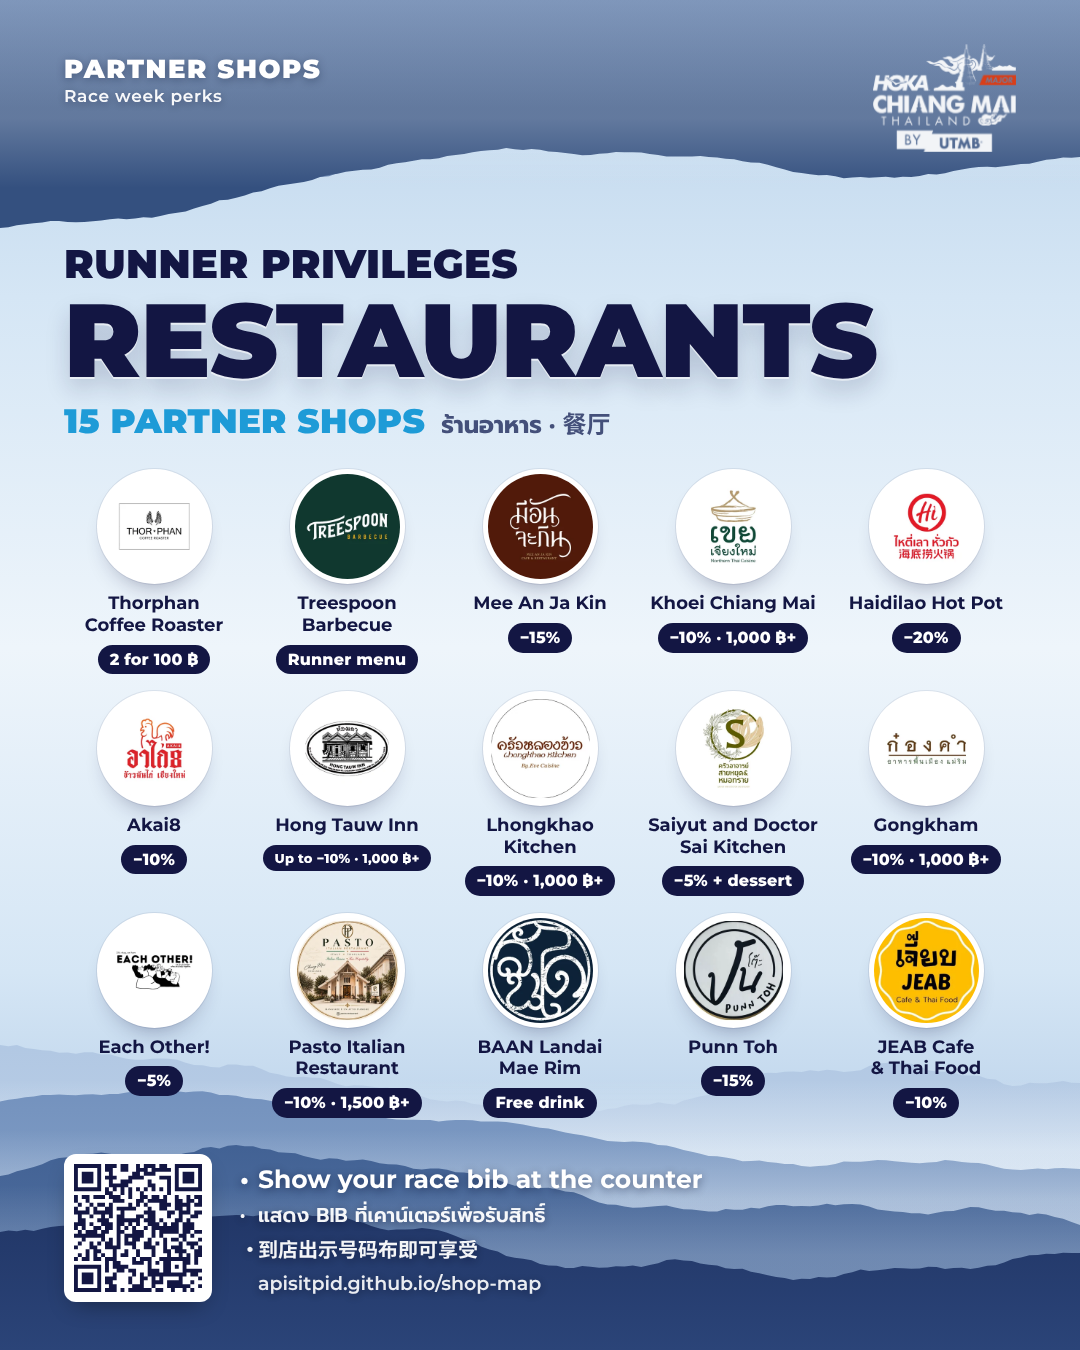
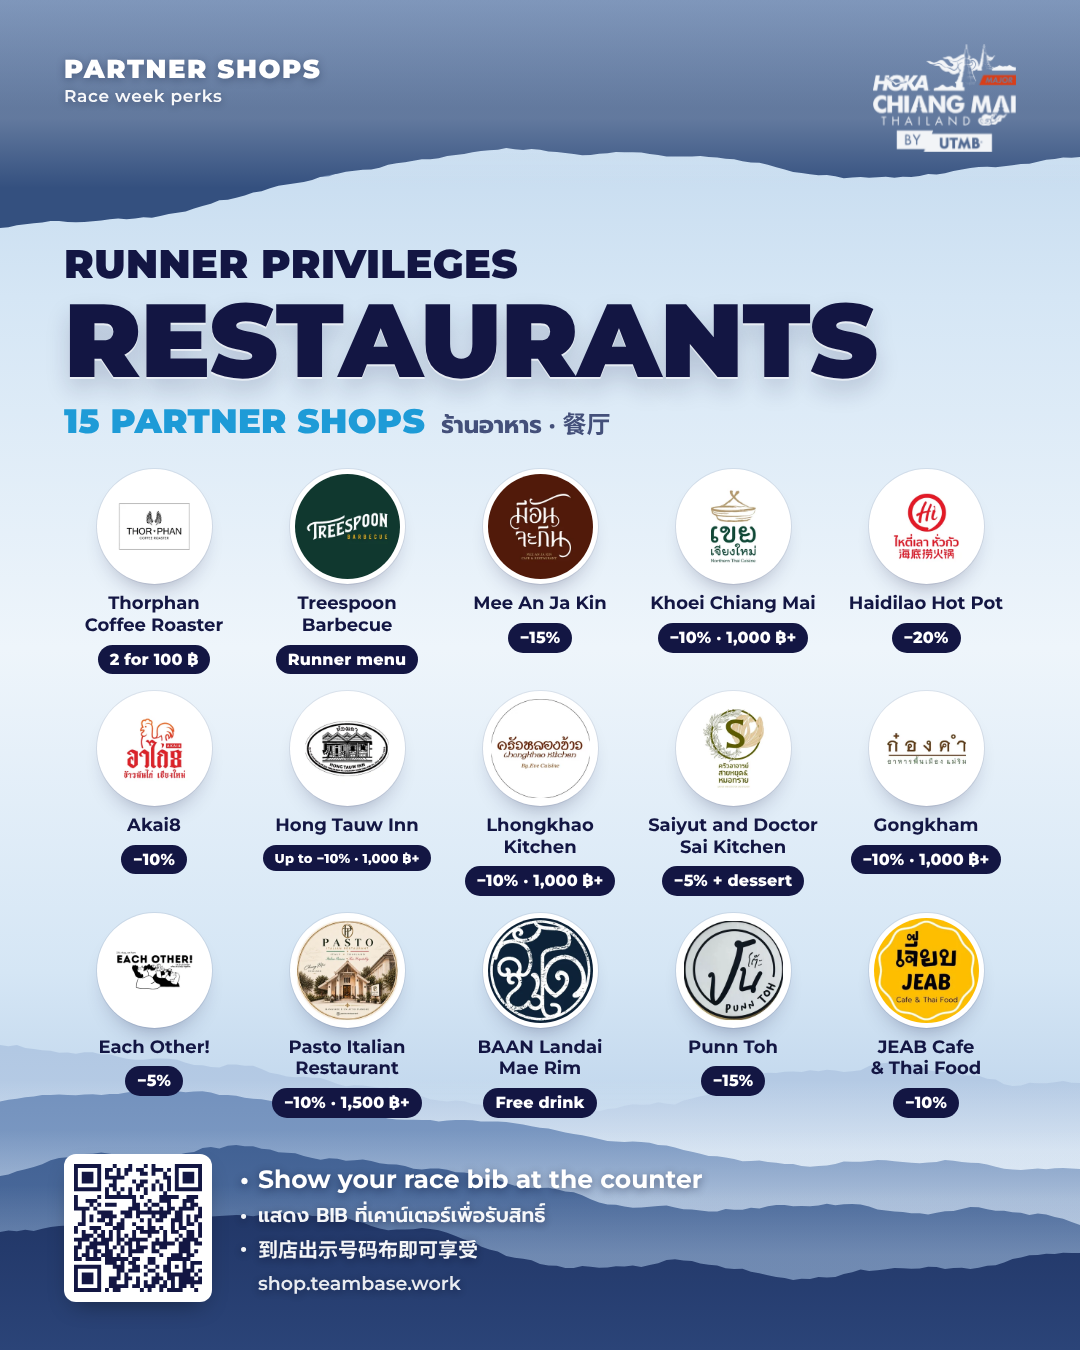
Shop map: production domain shop.teambase.work
- og:url / canonical / og:image use https://shop.teambase.work/
- Post QR codes and printed link point to the new domain (all 12 re-rendered)
- deploy/: nginx config and deploy steps for the VPS

Claude-Session: https://claude.ai/code/session_01UxwkSrKNztnXF9aGQjwj3k

Changed region(s): [[0.0611, 0.84, 0.1833, 0.9644], [0.2444, 0.9333, 0.4889, 0.9644]]

diff --git a/shop-map/promo/post.html b/shop-map/promo/post.html
@@ -56,7 +56,7 @@ canvas { position: absolute; left: 0; width: 1080px; pointer-events: none; }
 .qr { width: 148px; height: 148px; flex: none; padding: 10px; background: #fff; border-radius: 12px; box-shadow: 0 10px 24px -10px rgba(0,0,0,.45); }
 .qr svg { width: 100%; height: 100%; display: block; }
 .info .l, .info .s { display: grid; grid-template-columns: 18px 1fr; }
-.info .l::before, .info .s::before { content: "•"; }
+.info .l::before, .info .s::before { content: "•"; font-family: "Montserrat", sans-serif; font-weight: 700; }
 .info .u { padding-left: 18px; }
 .info { display: grid; gap: 6px; text-shadow: 0 2px 8px rgba(8,14,40,.45); }
 .info .l { font: 700 25px/1.3 var(--f); }
@@ -152,10 +152,10 @@ canvas { position: absolute; left: 0; width: 1080px; pointer-events: none; }
   }).join('');
 
   /* ---------- footer ---------- */
-  var url = 'https://apisitpid.github.io/shop-map/?cat=' + cat + '&lang=' + lang;
+  var url = 'https://shop.teambase.work/?cat=' + cat + '&lang=' + lang;
   document.getElementById('info').innerHTML = '<div class="l">' + C.esc(T.lines[0]) + '</div>' +
     T.lines.slice(1).map(function (t, i) { return '<div class="s" lang="' + C.HTML_LANG[OTHER[i]] + '">' + C.esc(t) + '</div>'; }).join('') +
-    '<div class="u">apisitpid.github.io/shop-map</div>';
+    '<div class="u">shop.teambase.work</div>';
   var qr = qrcode(0, 'M'); qr.addData(url); qr.make();
   document.getElementById('qr').innerHTML = qr.createSvgTag({ cellSize: 4, margin: 0, scalable: true });
   document.querySelectorAll('#qr svg path').forEach(function (p) { p.setAttribute('fill', '#131643'); });

diff --git a/shop-map/promo/bib.html b/shop-map/promo/bib.html
@@ -136,8 +136,8 @@ body::before { top: 22px; } body::after { bottom: 22px; }
   document.getElementById('alt').innerHTML = others.map(function (l) { return '<span lang="' + C.HTML_LANG[l] + '">' + C.esc(TITLE[l][cat]) + '</span>'; }).join('');
   document.getElementById('num').textContent = shops.length;
   document.getElementById('numlab').textContent = TXT.shops;
-  var url = 'https://apisitpid.github.io/shop-map/?cat=' + cat + '&lang=' + lang;
-  document.getElementById('how').innerHTML = '<b>' + C.esc(TXT.how) + '</b><div>' + TXT.sub.map(C.esc).join('<br>') + '</div><div class="url">apisitpid.github.io/shop-map</div>';
+  var url = 'https://shop.teambase.work/?cat=' + cat + '&lang=' + lang;
+  document.getElementById('how').innerHTML = '<b>' + C.esc(TXT.how) + '</b><div>' + TXT.sub.map(C.esc).join('<br>') + '</div><div class="url">shop.teambase.work</div>';
   var qr = qrcode(0, 'M'); qr.addData(url); qr.make();
   document.getElementById('qr').innerHTML = qr.createSvgTag({ cellSize: 4, margin: 0, scalable: true });
   document.querySelector('#qr svg rect').setAttribute('fill', '#fff');

diff --git a/shop-map/index.html b/shop-map/index.html
@@ -6,9 +6,11 @@
 <title>Runner Privileges · Chiang Mai</title>
 <meta name="description" content="Map of partner shops in Chiang Mai offering privileges to runners and supporters. ร้านพันธมิตรที่มอบสิทธิพิเศษให้นักวิ่ง · 清迈跑者专享优惠地图">
 <meta name="theme-color" content="#131643">
+<meta property="og:url" content="https://shop.teambase.work/">
+<link rel="canonical" href="https://shop.teambase.work/">
 <meta property="og:title" content="Runner Privileges · Chiang Mai">
 <meta property="og:description" content="49 partner shops with perks for runners and supporters. TH · EN · 中文">
-<meta property="og:image" content="https://apisitpid.github.io/shop-map/brand/og.png">
+<meta property="og:image" content="https://shop.teambase.work/brand/og.png">
 <link rel="icon" href="brand/favicon-64.png" type="image/png">
 <link rel="apple-touch-icon" href="brand/icon-180.png">
 <link rel="preconnect" href="https://tiles.openfreemap.org" crossorigin>
